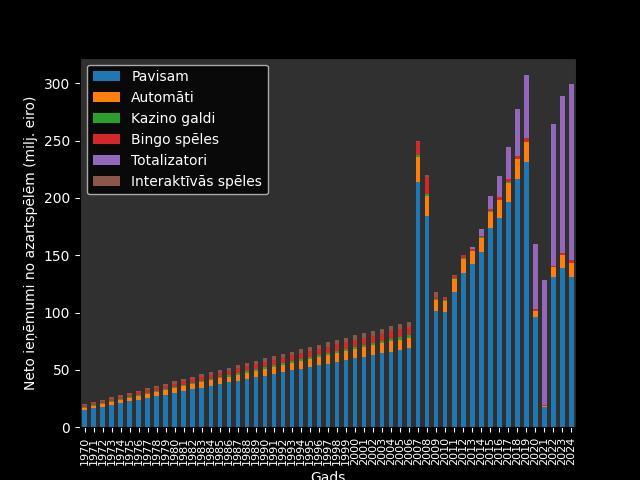
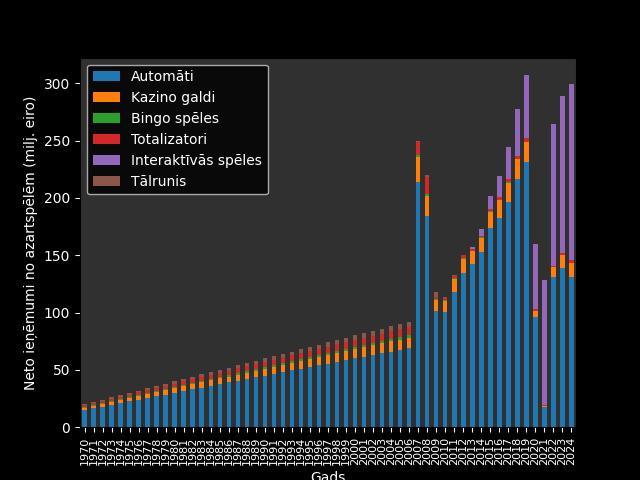
Grafiks salabots

Changed region(s): [[0.1875, 0.125, 0.4062, 0.4062]]

diff --git a/app.py b/app.py
@@ -72,19 +72,21 @@ def grafiki():
 
     stabiņa_kolonnas = []
     for kolonna in df.columns:
-        if kolonna != 'pavisam':
+        if kolonna == 'pavisam':
+            continue
+        else:
             stabiņa_kolonnas.append(kolonna)
 
-    stacked_data = df[stabiņa_kolonnas]
+    stabiņu_dati = df[stabiņa_kolonnas]
     
-    stacked_data.plot.bar(stacked=True, ax=ax)
+    stabiņu_dati.plot.bar(stacked=True, ax=ax)
     ax.set_xlabel("Gads")
     ax.set_ylabel("Neto ieņēmumi no azartspēlēm (milj. eiro)")
     
     ax.tick_params(axis='x', labelsize=8)
     
     nosaukumi = []
-    for nosaukums in df.columns:
+    for nosaukums in stabiņu_dati.columns:
         nosaukums = nosaukums.capitalize().replace("_", " ")
         nosaukumi.append(nosaukums)
     ax.legend(
